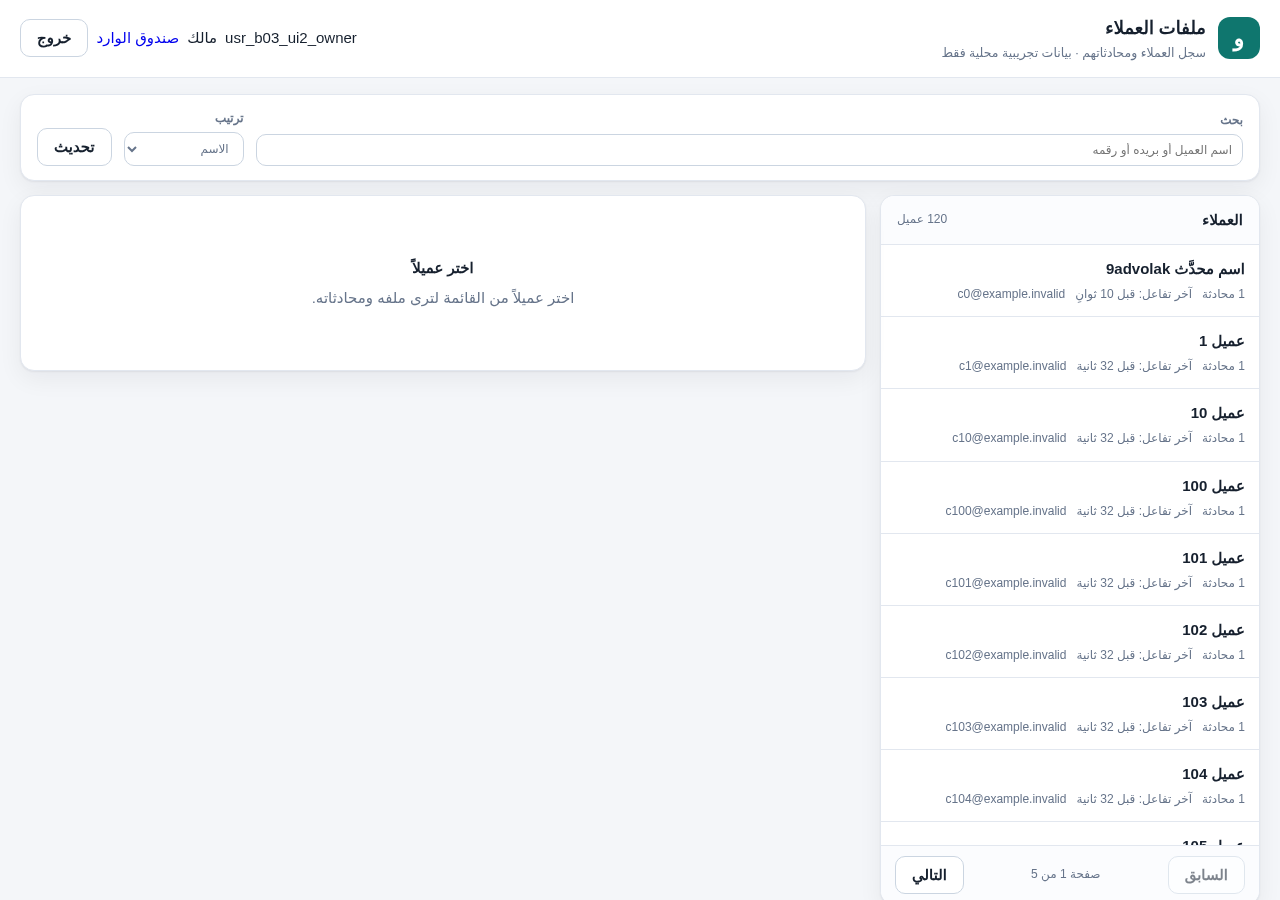
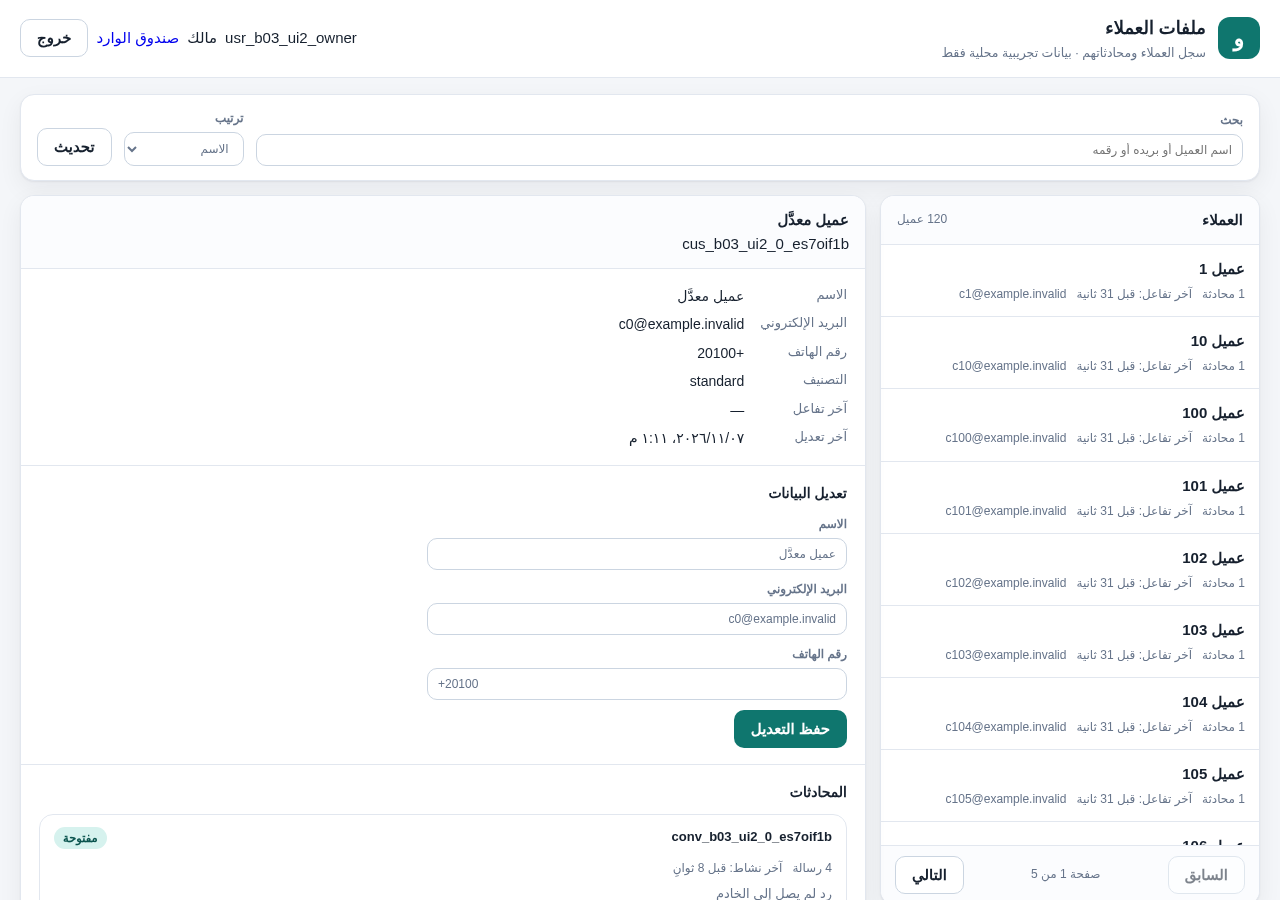
test(ui): the previews of the CRM show the real profile and the real form (D-071)
⭐⭐ The previews are EVIDENCE for the owner ⇒ ⭐ they now show the
state that matters: the file of the customer (his data, his
conversations) and the form of the edit ⇒ ⭐ not an empty list.

⭐ The shot of the phone is the same state (the file of the customer)
⇒ ⭐ the two shots are comparable.

⭐ And the name of the edit is clean ("عميل معدَّل") ⇒ ⭐ the
identifiers keep the random suffix (they must be unique) but the
name that a human reads does not carry a random string.

diff --git a/tests/ui/crm-ui.test.ts b/tests/ui/crm-ui.test.ts
@@ -442,7 +442,7 @@ test('FOUNDATION 22) the CRM and the refresh in a real browser (D-071)', async (
   await t.test('⭐⭐⭐ D-071 (UI-17): the edit is real and it is audited', async () => {
     // ⭐ The owner may manage a customer ⇒ the block of the edit shows.
     assert.equal(await page.isVisible('#edit-block'), true, '⭐⭐⭐ the edit is hidden from the owner');
-    await page.fill('#edit-name', `اسم محدَّث ${RUN}`);
+    await page.fill('#edit-name', 'عميل معدَّل');
     // ⭐ The confirmation of a change that matters.
     page.evaluate(`window.confirm = () => true`);
     await page.click('#btn-save');
@@ -453,13 +453,15 @@ test('FOUNDATION 22) the CRM and the refresh in a real browser (D-071)', async (
     const changed = await UnitOfWork.run(harness.ownerPool, tenantId, async (uow) => {
       const result = await uow.query(
         `select count(*)::int as count from customers where tenant_id = $1 and display_name = $2`,
-        [tenantId, `اسم محدَّث ${RUN}`],
+        [tenantId, 'عميل معدَّل'],
       );
       return Number(result.rows[0]?.['count'] ?? '0');
     });
     assert.equal(changed, 1, '⭐⭐⭐ the change is not in the database');
   });
 
+  // ⭐⭐ The deep link of the customer (the two pages carry each other).
+  let customerHref = '';
   await t.test('⭐⭐⭐ D-071 (UI-18): the two pages carry each other', async () => {
     // ⭐ The inbox links to the file of the customer.
     await page.goto(`${base}/ui/inbox.html`);
@@ -469,17 +471,22 @@ test('FOUNDATION 22) the CRM and the refresh in a real browser (D-071)', async (
     assert.equal(await page.isVisible('#link-customer'), true, '⭐⭐⭐ the link to the CRM is hidden');
     const href = await page.evaluate(`document.getElementById('link-customer').getAttribute('href')`);
     assert.match(String(href), /crm\.html\?customer=/, `⭐⭐⭐ the link is wrong: ${href}`);
+    customerHref = String(href);
     // ⭐⭐⭐ And the CRM opens that customer.
-    await page.goto(`${base}${href}`);
+    await page.goto(`${base}${customerHref}`);
     await page.waitForTimeout(1200);
     assert.equal(await page.isVisible('#profile'), true, '⭐⭐⭐ the CRM did not open the customer');
     const name = await page.innerText('#profile-name');
     assert.ok(name.length > 0, '⭐⭐⭐ the name of the customer is missing');
+    // ⭐⭐⭐ The form of the edit is there (the owner may edit).
+    assert.equal(await page.isVisible('#edit-form'), true, '⭐⭐⭐ the form of the edit is not visible');
+    await page.screenshot({ path: path.join(SHOT_DIR, 'crm-desktop.png'), fullPage: false });
   });
 
   await t.test('⭐⭐⭐ UI-19: the CRM on a phone width', async () => {
     await page.setViewportSize({ width: 390, height: 844 });
-    await page.goto(`${base}/ui/crm.html`);
+    // ⭐ The file of the customer (the same state as the desktop shot).
+    await page.goto(`${base}${customerHref}`);
     await page.waitForTimeout(1200);
     const overflow = await page.evaluate(
       `document.documentElement.scrollWidth <= document.documentElement.clientWidth + 2`,
@@ -488,7 +495,6 @@ test('FOUNDATION 22) the CRM and the refresh in a real browser (D-071)', async (
     await page.screenshot({ path: path.join(SHOT_DIR, 'crm-mobile.png'), fullPage: false });
     await page.setViewportSize({ width: 1280, height: 900 });
     await page.waitForTimeout(300);
-    await page.screenshot({ path: path.join(SHOT_DIR, 'crm-desktop.png'), fullPage: false });
   });
 
   await t.test('⭐⭐⭐ M-79 (UI-13b): the refresh stops when the session is over', async () => {
